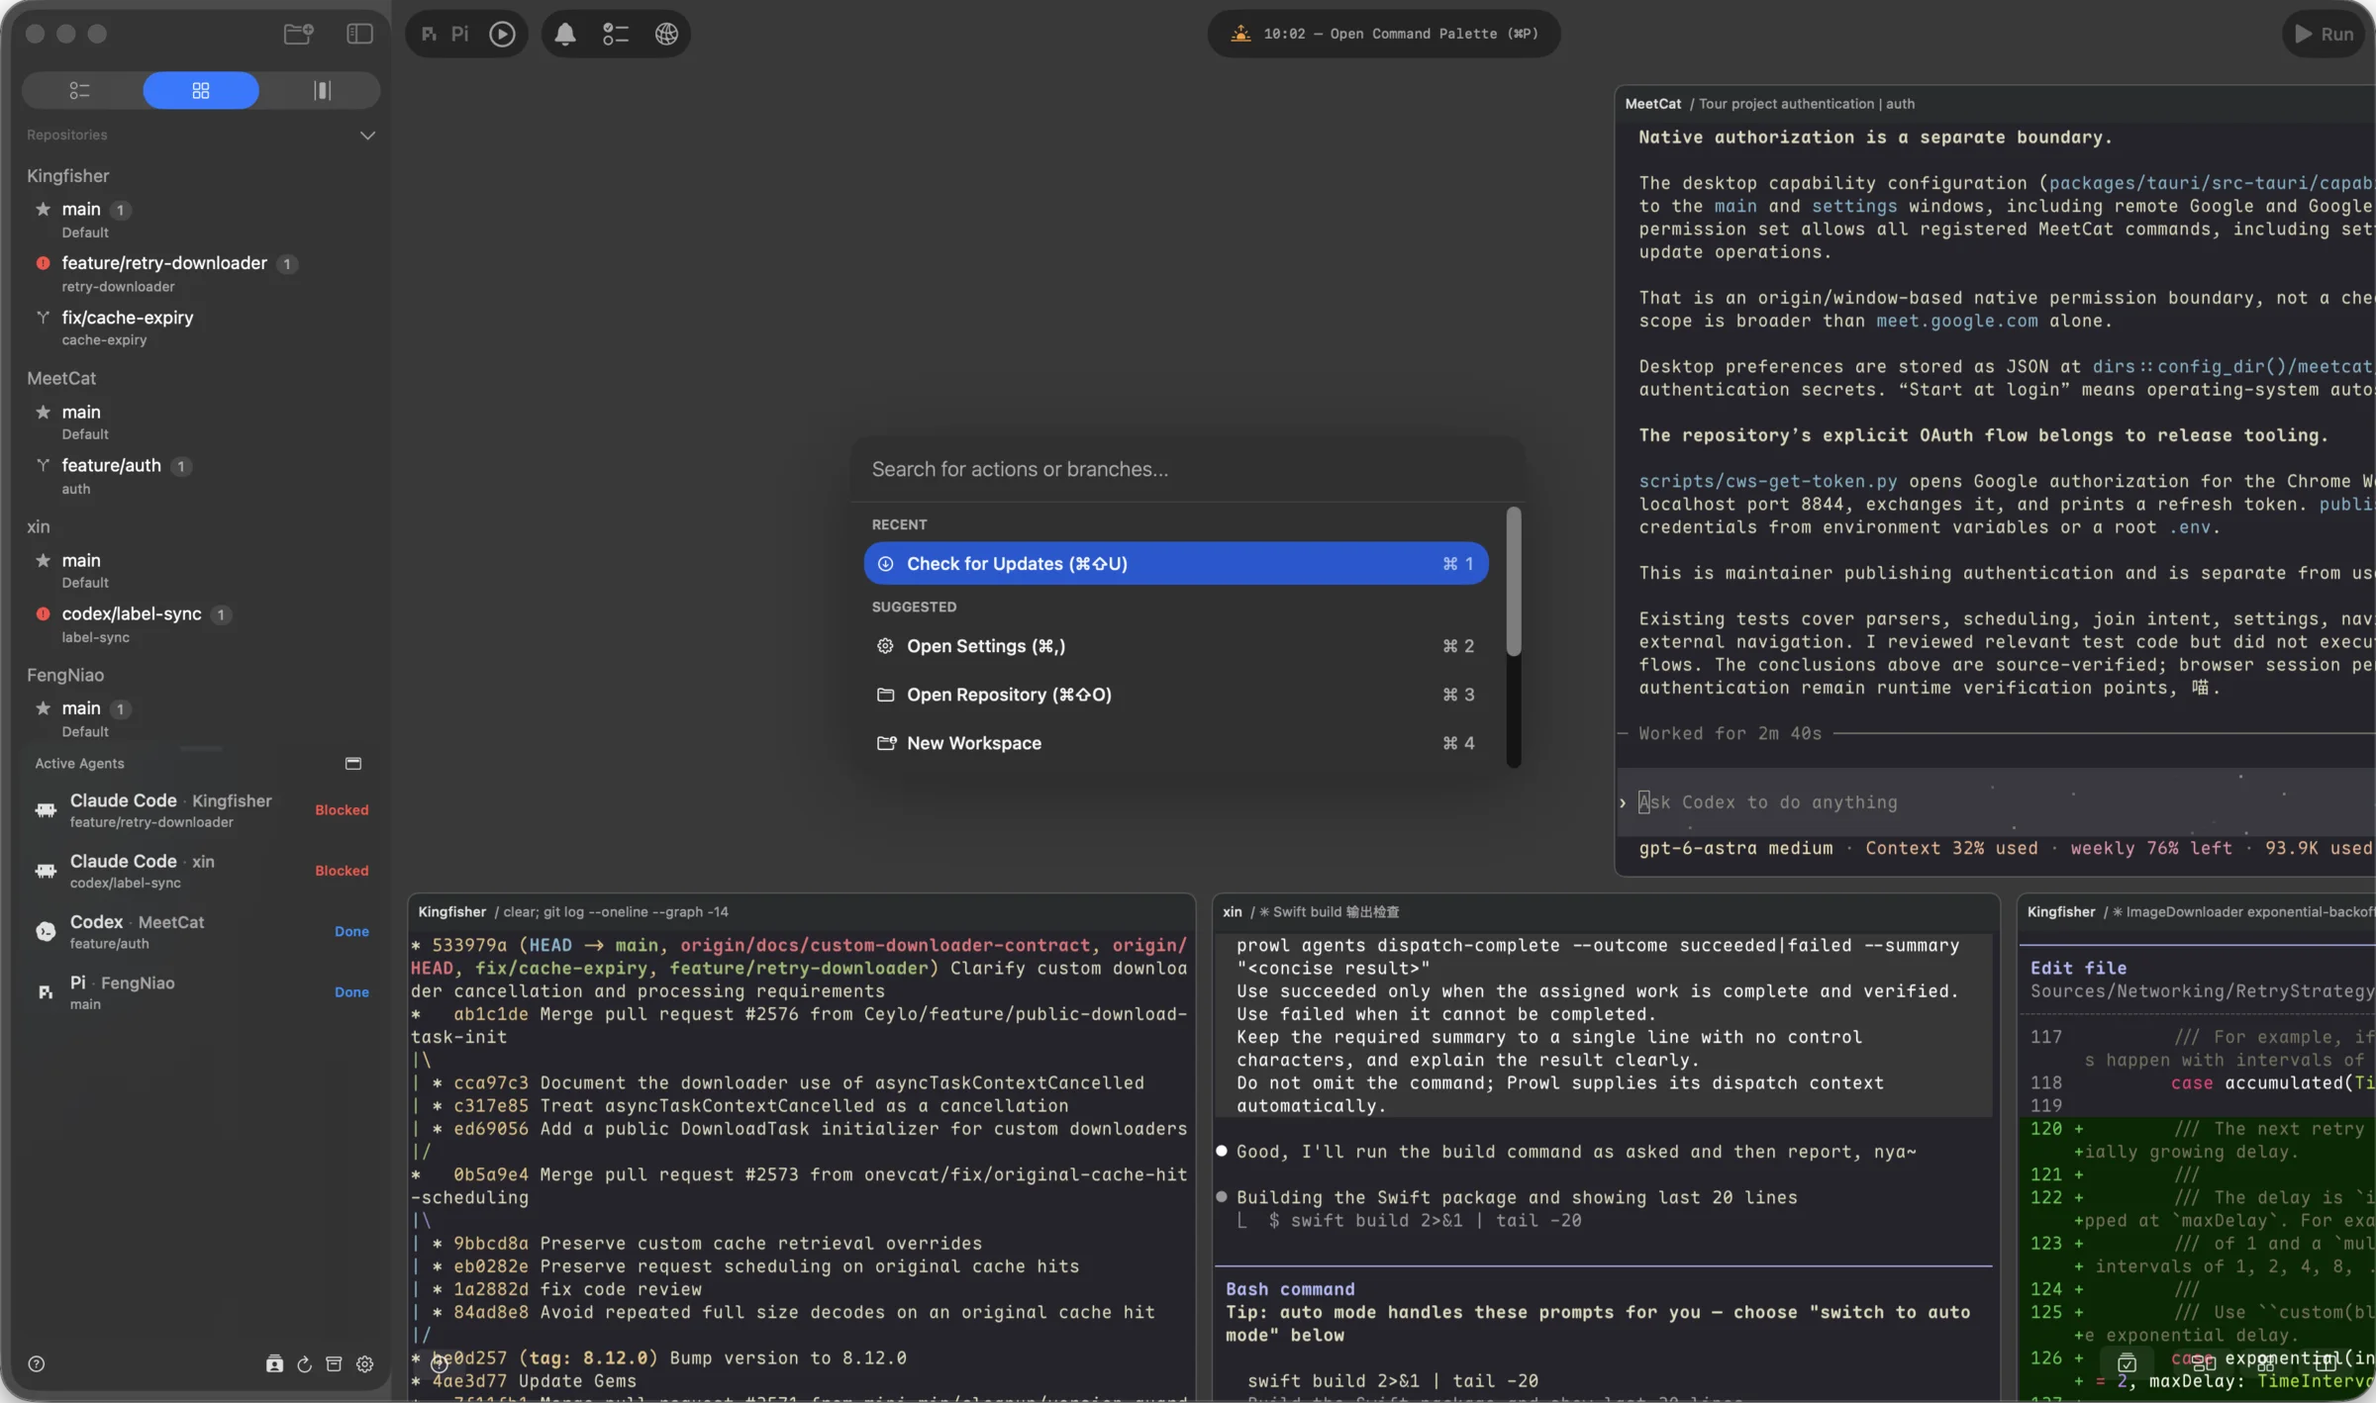
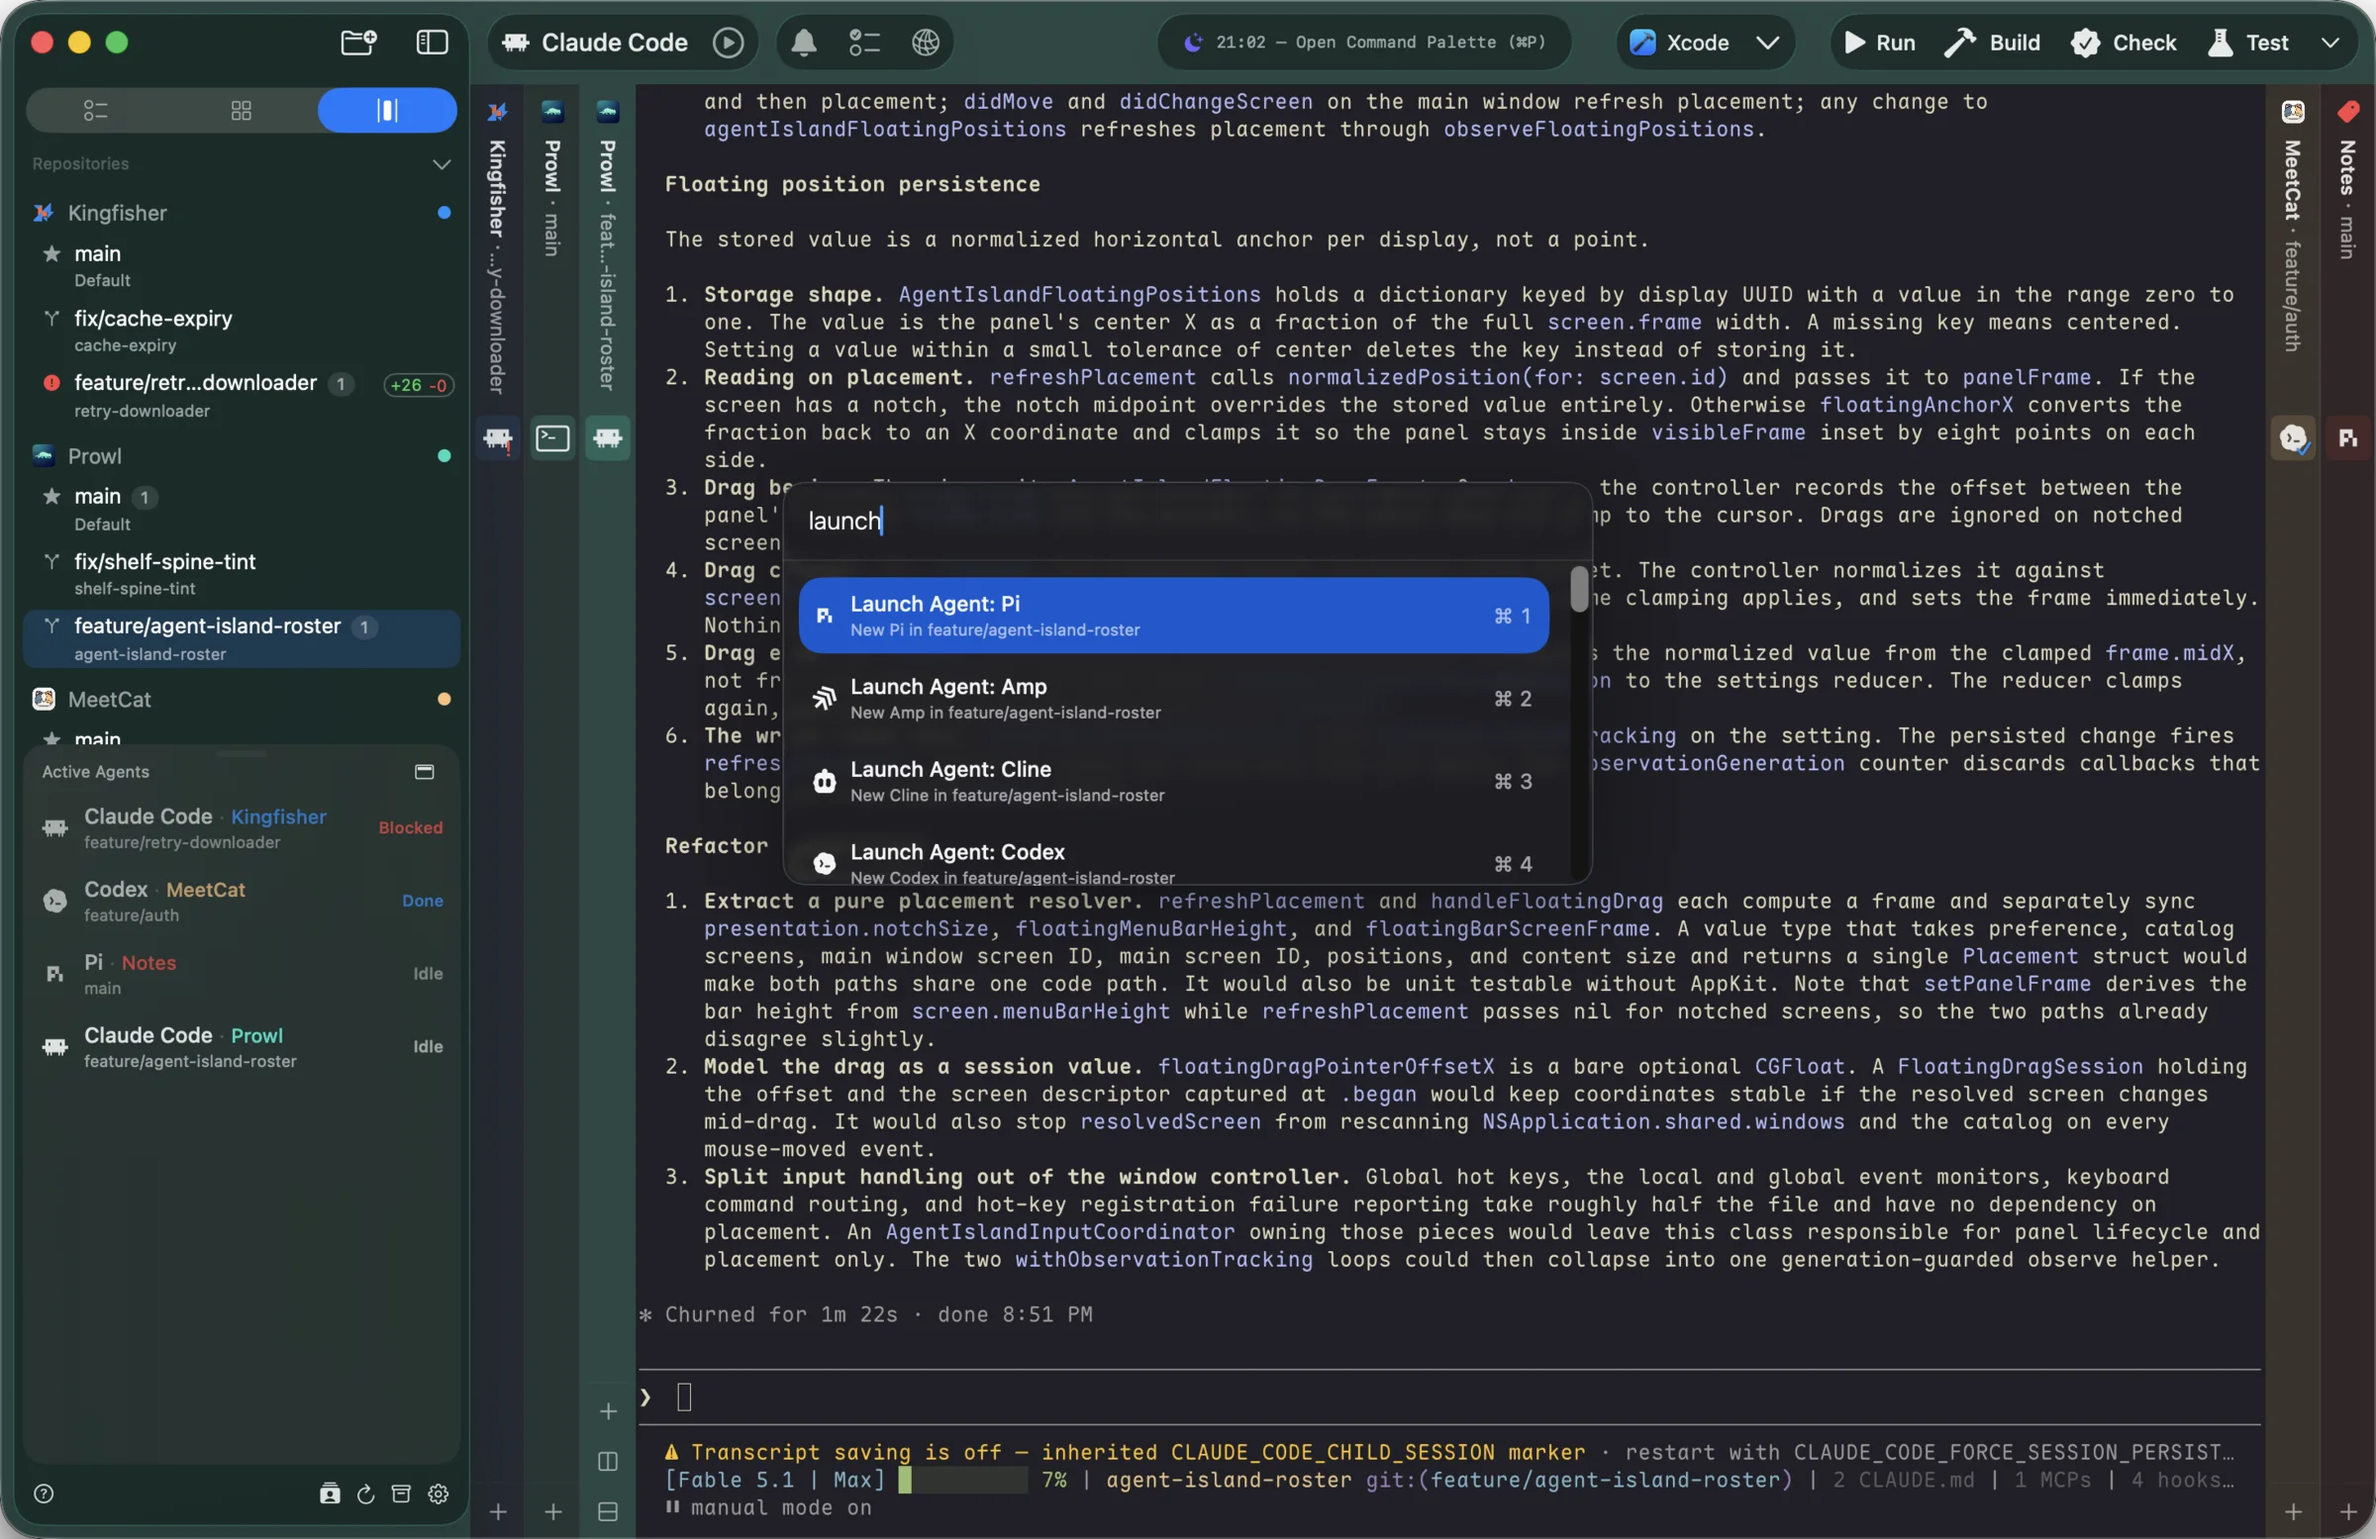
feat(details): colourful screenshots and centred, image-width panels
Recapture every screenshot with repository colours and icons (Kingfisher
blue, Prowl mint, MeetCat yellow, Notes red) so window tint, spine tint
and card headers show. The intro hero is Shelf with the Prowl book open.
Add the Agents menu, Agent Island roster, Workflow History, New Worktree
sheet, Command Palette query and Diff window captures.

Panels now stack the visual over the copy at every width; both are
centred and share the same maximum width, with the description split
into a pitch column and a facts column on wide screens.

Claude-Session: https://claude.ai/code/session_01PwYW2WdmWR3xrG8KaF6Emp

diff --git a/docs/screenshots.md b/docs/screenshots.md
@@ -4,46 +4,55 @@ Assets live in `public/images/shots/`. They are referenced from `src/pages/detai
 
 ## How the current set was captured
 
-- App: `Prowl Debug.app` (Debug build of the same commit as the synced docs).
-- Isolation: `PROWL_DEBUG_DATA_DIRECTORY=<scratch>/pd-data` and `PROWL_CLI_SOCKET=/tmp/pd/cli.sock`,
-  so nothing from `~/.prowl` or the release app is involved.
-- Scene: shallow clones of Kingfisher, MeetCat, xin, FengNiao and magpie with a few extra
-  worktrees (`feature/retry-downloader`, `fix/cache-expiry`, `feature/auth`, `codex/label-sync`)
-  and a `checkout-flow` workspace. Agents were launched from the seeded Agent Profiles through
-  `prowl create tab --profile … --prompt -` so Working / Blocked / Done / Idle all appear.
+- App: `Prowl Debug.app` (Debug build of the same commit as the synced docs), launched with
+  `PROWL_DEBUG_DATA_DIRECTORY=<scratch>/pd-data` and `PROWL_CLI_SOCKET=/tmp/pd/cli.sock`, so
+  nothing from `~/.prowl` or the release app is involved.
+- Scene: shallow clones of Kingfisher (blue, logo icon), Prowl (mint, app icon), MeetCat (yellow,
+  app icon) and a small Notes repo (red, tag icon), with extra worktrees
+  (`feature/retry-downloader`, `fix/cache-expiry`, `feature/agent-island-roster`,
+  `fix/shelf-spine-tint`, `feature/auth`). Repository colours and icons come from
+  `repository-appearances.json`, keyed by the `/tmp/…` path Prowl reports (not `/private/tmp`).
+  Window tint follows the repository colour; Shelf spines follow it too.
+- Agents: Claude Code, Codex and Pi launched from the seeded Agent Profiles through
+  `prowl create tab --profile … --prompt -`, so Working / Blocked / Done / Idle all appear.
 - Capture: `screencapture -l <windowID>` (window id from `CGWindowListCopyWindowInfo`), cropped to
-  the 1760×1040 pt window and encoded with `magick … -quality 84 out.webp`. View modes were switched
-  through the View menu with AppleScript accessibility (`click menu item "Canvas" of menu "View"`).
+  the opaque window bounds and encoded with `magick … -quality 84 out.webp`. Menus were driven with
+  AppleScript (`click menu item "Canvas" of menu "View"`), toolbar buttons with the AX API
+  (`AXPress` on the button's identifier, e.g. `agents-toolbar-menu`, `Tile`).
 
 ## Inventory
 
-| File | Shows | Status |
+| File | Shows | Used on |
 | --- | --- | --- |
-| `hero.webp` | Normal view: sidebar with worktrees and badges, a finished Codex session, Active Agents with Done / Blocked rows, custom command buttons | captured (details intro) |
-| `canvas.webp` | Canvas, five tiled cards (Claude working, Codex working, Pi done, a permission prompt, a shell) | captured |
-| `shelf.webp` | Shelf with spines on both sides and the Codex book open | captured |
-| `new-worktree.webp` | The New Worktree sheet with an Apple Intelligence branch suggestion over a Claude session; `+26 -0` badge in the sidebar | captured (Layout → Sidebar & worktrees) |
-| `active-agents.webp` | Active Agents panel crop with Working / Blocked / Done rows | captured |
-| `agent-island.webp` | Floating Agent Island bar with state counts and a Blocked cell | captured |
-| `custom-commands.webp` | Toolbar crop with Run, Build, Test, Review buttons | captured |
-| `workflow-status.webp` | Toolbar crop with the workflow status item "Prepare handoff briefing" needing attention | captured |
-| `command-palette.webp` | Command Palette open over Canvas | captured (Fundamentals) |
-| `settings.webp` | Settings window, General page, with the Agents sections in the sidebar | captured (Fundamentals) |
+| `hero.webp` | Shelf view with the Prowl book open (mint chrome), Kingfisher / MeetCat / Notes as closed spines, Active Agents with Blocked / Done / Idle | Details intro |
+| `canvas.webp` | Canvas, five tiled cards with repository-coloured headers: Claude explaining code, a permission prompt, Codex done, Pi done, a git log | Layout → Canvas |
+| `shelf.webp` | Shelf with the Prowl feature book open and a Working / Blocked roster | Layout → Shelf |
+| `new-worktree.webp` | New Worktree sheet with an Apple Intelligence branch suggestion over a Claude session; `+26 -0` badge in the sidebar | Layout → Sidebar & worktrees |
+| `normal.webp` | Normal view, Prowl feature worktree, full Claude answer | (spare) |
+| `active-agents.webp` | Active Agents panel crop: Blocked, Done, Idle, Idle with repository colours | Agents → Active Agents |
+| `agent-island.webp` | Floating Agent Island bar with state counts and Blocked / Done cells | Agents → Agent Island |
+| `agent-island-roster.webp` | Expanded Island roster with 1–4 shortcuts and the keyboard legend | Agents → Agent Island |
+| `agents-popover.webp` | Toolbar Agents menu: Run a workflow (Hello World, Handoff) and one launch row per profile | Agents → Agent Profiles |
+| `custom-commands.webp` | Toolbar crop: Xcode open button, Run, Build, Check, Test | Automation → Custom Commands |
+| `workflow-history.webp` | Workflow History panel over a Handoff run that needs attention | Automation → Agent Workflows |
+| `workflow-status.webp` | Toolbar crop with the workflow status item "Prepare handoff briefing" | (spare) |
+| `command-palette.webp` | Command Palette filtered by "launch": Launch Agent rows | Fundamentals |
+| `diff.webp` | Show Diff window, split view, RetryStrategy.swift | Fundamentals |
+| `settings.webp` | Settings window, General page (older neutral scene) | Fundamentals |
 
 ## Still worth capturing by hand
 
-These need clicks, hover, or a notched display, which the scripted session could not do while
-the screen was locked. Each one has a placeholder-free fallback on the page today, so the site
-ships without them; drop the file in and add an `<img>` to the matching panel when available.
+The Debug scene is left running with this configuration; use it for these. Drop the file into
+`public/images/shots/` and reference it from the matching panel in `src/pages/details.astro`.
 
 | Suggested file | What to capture | Where it would go |
 | --- | --- | --- |
-| `agents-popover.webp` | Toolbar Agents capsule open: "Run a workflow" section and profile rows with the Recommended badge | Agents → Agent Profiles (replace the CSS profile card) |
-| `agent-profile-editor.webp` | Settings → Agents → Profiles → a profile editor with the Launch Preview | Agents → Agent Profiles |
-| `agent-island-roster.webp` | Agent Island expanded roster with the 1–9 hints, ideally on a notched display | Agents → Agent Island (second image) |
-| `workflow-start-sheet.webp` | The start sheet of a multi-agent workflow (roles, options, steps) | Automation → Agent Workflows |
-| `workflow-history.webp` | Workflow History panel with an expanded step | Automation → Agent Workflows |
-| `command-palette-query.webp` | `⌘P` with a query typed, showing "Launch Agent" and "Run Workflow" rows | Fundamentals (replace `command-palette.webp`) |
-| `diff-window.webp` | Show Diff window, split mode, a real agent change (the window opened but its web view did not render while the screen was locked) | Fundamentals |
-| `canvas-broadcast.webp` | Canvas with three cards selected and "Broadcasting to 3 cards" in the toolbar | Layout → Canvas (second image) |
-| `workspace.webp` | A workspace expanded in the sidebar with child rows and their badges | Layout → Workspaces (beside the JSON) |
+| `hero.webp` (retake) | Same Shelf composition as now, but with the window active (coloured traffic lights); the scripted run could not activate the window while another app was in use | Details intro (replace) |
+| `workflow-start-sheet.webp` | Agents menu → Handoff → the start sheet with Roles / Options / Steps (a Handoff run was already live, so the sheet did not open) | Automation → Agent Workflows (add beside history) |
+| `settings-profiles.webp` | Settings → Agents → Profiles list, and one profile editor with the Launch Preview | Agents → Agent Profiles (add) |
+| `settings-cli-skills.webp` | Settings → Agents → CLI & Skills with the connection status and skill targets | CLI & skills → Bundled skills |
+| `settings-workflows.webp` | Settings → Agents → Workflows detail page (Roles, Run Setup, Validation) | Automation → Agent Workflows |
+| `canvas-broadcast.webp` | Canvas with three cards ⌘-selected and "Broadcasting to 3 cards" in the toolbar | Layout → Canvas (second image) |
+| `workspace.webp` | A workspace expanded in the sidebar with child rows and their badges (add `demo/checkout-flow` back to the scene) | Layout → Workspaces (beside the JSON) |
+| `agent-island-notch.webp` | Agent Island on the built-in notched display, wings on both sides of the camera | Agents → Agent Island |
+| `settings.webp` (retake) | Settings → General with the colourful scene, or drop it | Fundamentals |
